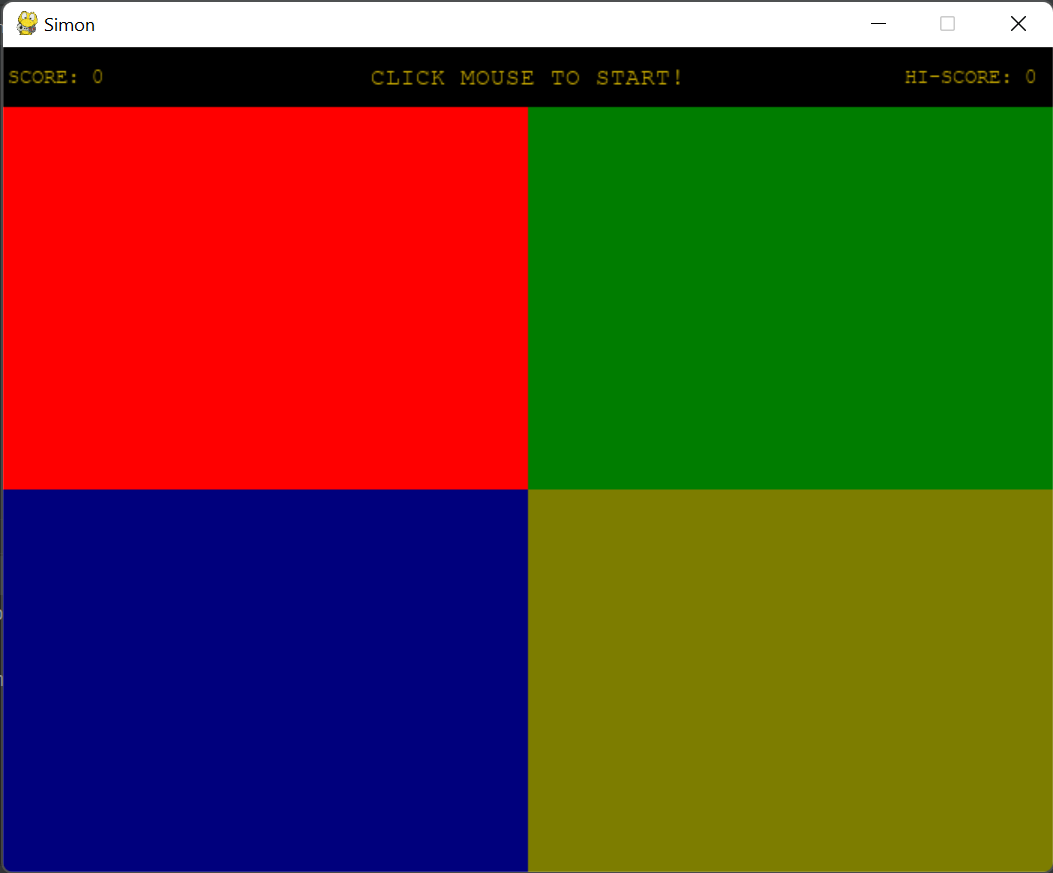
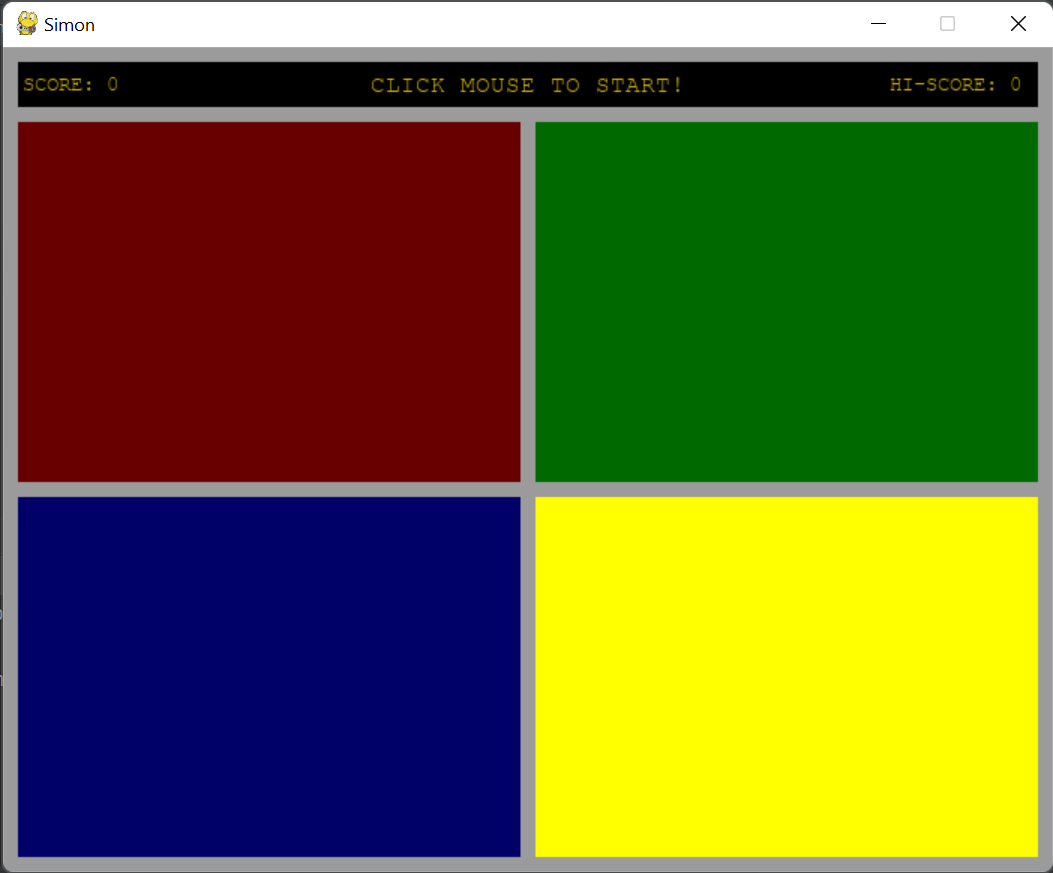
Add screen border and fanfare.

diff --git a/simon.py b/simon.py
@@ -53,28 +53,28 @@ class Button:
 
 class RedButton(Button):
     def __init__(self, surface, x, y, w, h):
-        self.rgb = ((125, 0, 0), (255, 0, 0))
+        self.rgb = ((105, 0, 0), (255, 0, 0))
         self.tone = 440
         super().__init__(surface, "RED", self.rgb, self.tone, x, y, w, h)
 
 
 class GreenButton(Button):
     def __init__(self, surface, x, y, w, h):
-        self.rgb = ((0, 125, 0), (0, 255, 0))
+        self.rgb = ((0, 105, 0), (0, 255, 0))
         self.tone = 164.81
         super().__init__(surface, "GREEN", self.rgb, self.tone, x, y, w, h)
 
 
 class BlueButton(Button):
     def __init__(self, surface, x, y, w, h):
-        self.rgb = ((0, 0, 125), (0, 0, 255))
+        self.rgb = ((0, 0, 105), (0, 0, 255))
         self.tone = 329.63
         super().__init__(surface, "BLUE", self.rgb, self.tone, x, y, w, h)
 
 
 class YellowButton(Button):
     def __init__(self, surface, x, y, w, h):
-        self.rgb = ((125, 125, 0), (255, 255, 0))
+        self.rgb = ((105, 105, 0), (255, 255, 0))
         self.tone = 277.18
         super().__init__(surface, "YELLOW", self.rgb, self.tone, x, y, w, h)
 
@@ -84,16 +84,38 @@ class Board:
         self.width = width
         self.height = height
         self.screen = pg.display.set_mode((self.width, self.height))
-        self.banner_h = 40
+        self.screen.fill((155, 155, 155))
+        pg.display.update()
+        self.border = 10
+        self.banner_h = 50
         self.banner_rgb = (0, 0, 0)
-        self.banner_rect = pg.Rect(0, 0, self.width, self.banner_h)
+        self.banner_rect = pg.Rect(0 + self.border,
+                                   0 + self.border,
+                                   self.width - self.border * 2,
+                                   self.banner_h - self.border * 2)
         self.draw_banner(0, 0)
-        self.button_h = (self.height - self.banner_h) / 2
-        self.button_w = self.width / 2
-        self.buttons = {"RED": RedButton(self.screen, 0, self.banner_h, self.button_w, self.button_h),
-                        "GREEN": GreenButton(self.screen, self.button_w, self.banner_h, self.button_w, self.button_h),
-                        "BLUE": BlueButton(self.screen, 0, self.banner_h + self.button_h, self.button_w, self.button_h),
-                        "YELLOW": YellowButton(self.screen, self.button_w, self.banner_h + self.button_h, self.button_w, self.button_h)}
+        self.button_h = (self.height - self.banner_h - self.border * 2) / 2
+        self.button_w = (self.width - self.border * 3) / 2
+        self.buttons = {"RED": RedButton(self.screen,
+                                         self.border,
+                                         self.banner_h,
+                                         self.button_w,
+                                         self.button_h),
+                        "GREEN": GreenButton(self.screen,
+                                             self.button_w + self.border * 2,
+                                             self.banner_h,
+                                             self.button_w,
+                                             self.button_h),
+                        "BLUE": BlueButton(self.screen,
+                                           self.border,
+                                           self.banner_h + self.border + self.button_h,
+                                           self.button_w,
+                                           self.button_h),
+                        "YELLOW": YellowButton(self.screen,
+                                               self.button_w + self.border * 2,
+                                               self.banner_h + self.border + self.button_h,
+                                               self.button_w,
+                                               self.button_h)}
 
     def draw_banner(self, score, hiscore, msg=None):
         pg.draw.rect(self.screen, self.banner_rgb, self.banner_rect)
@@ -106,8 +128,8 @@ class Board:
         hiscore_txt = font1.render(f"HI-SCORE: {hiscore}", True, (205, 175, 0))
         msg_txt = font2.render(msg, True, (205, 175, 0))
         # centre the messages
-        score_txt_rect = score_txt.get_rect(center=(35, self.banner_h / 2))
-        hiscore_txt_rect = hiscore_txt.get_rect(center=(self.width - 55, self.banner_h / 2))
+        score_txt_rect = score_txt.get_rect(center=(45, self.banner_h / 2))
+        hiscore_txt_rect = hiscore_txt.get_rect(center=(self.width - 65, self.banner_h / 2))
         msg_txt_rect = msg_txt.get_rect(center=(self.width / 2, self.banner_h / 2))
         # display
         self.screen.blit(score_txt, score_txt_rect)
@@ -116,8 +138,16 @@ class Board:
         pg.display.update(self.banner_rect)
 
     def demo(self):
-        for c, b in self.buttons.items():
-            b.flash(on=0.15, off=0.05)
+        notes = ["GREEN", "YELLOW", "BLUE", "RED", "BLUE", "YELLOW"]
+        for n in notes:
+            self.buttons[n].flash(on=0.25, off=0.05)
+
+    def fanfare(self):
+        notes = ["GREEN", "YELLOW", "BLUE", "RED"]
+        length = [250, 250, 250, 500]
+        for i in range(len(notes)):
+            sounds.Tone(self.buttons[notes[i]].tone, 'b', 0.1).play(-1, maxtime=length[i])
+            time.sleep(length[i] / 1000)
 
 
 class Game:
@@ -166,6 +196,7 @@ def main():
     pg.init()
     pg.display.set_caption('Simon')
     board = Board(700, 550)
+    # board.fanfare()
     mode = "DEMO"
     while True:
         if mode == "DEMO":
@@ -185,22 +216,24 @@ def main():
             board.draw_banner(game.score, hiscore, msg)
             while match:
                 game.extend_seq()
-                msg = game.check_score() or msg
-                board.draw_banner(game.score, hiscore, msg)
+                new_msg = game.check_score()
+                if new_msg:
+                    board.draw_banner(game.score, hiscore, new_msg)
+                    board.fanfare()
+                else:
+                    board.draw_banner(game.score, hiscore, msg)
                 time.sleep(0.5)
                 for clr in game.seq_to_text():
                     board.buttons[clr].flash()
                 pg.event.clear()
                 while len(game.current_seq) > 0:
-                    pressed = None
                     event = pg.event.wait()
                     if event.type == pg.MOUSEBUTTONDOWN:
                         for clr, btn in board.buttons.items():
                             if btn.mouseover(event):
-                                pressed = clr
+                                # pressed = clr
+                                match = game.check_input(clr)
                                 break
-                    if pressed:
-                        match = game.check_input(pressed)
                     if not match:
                         break
                 msg = " "
